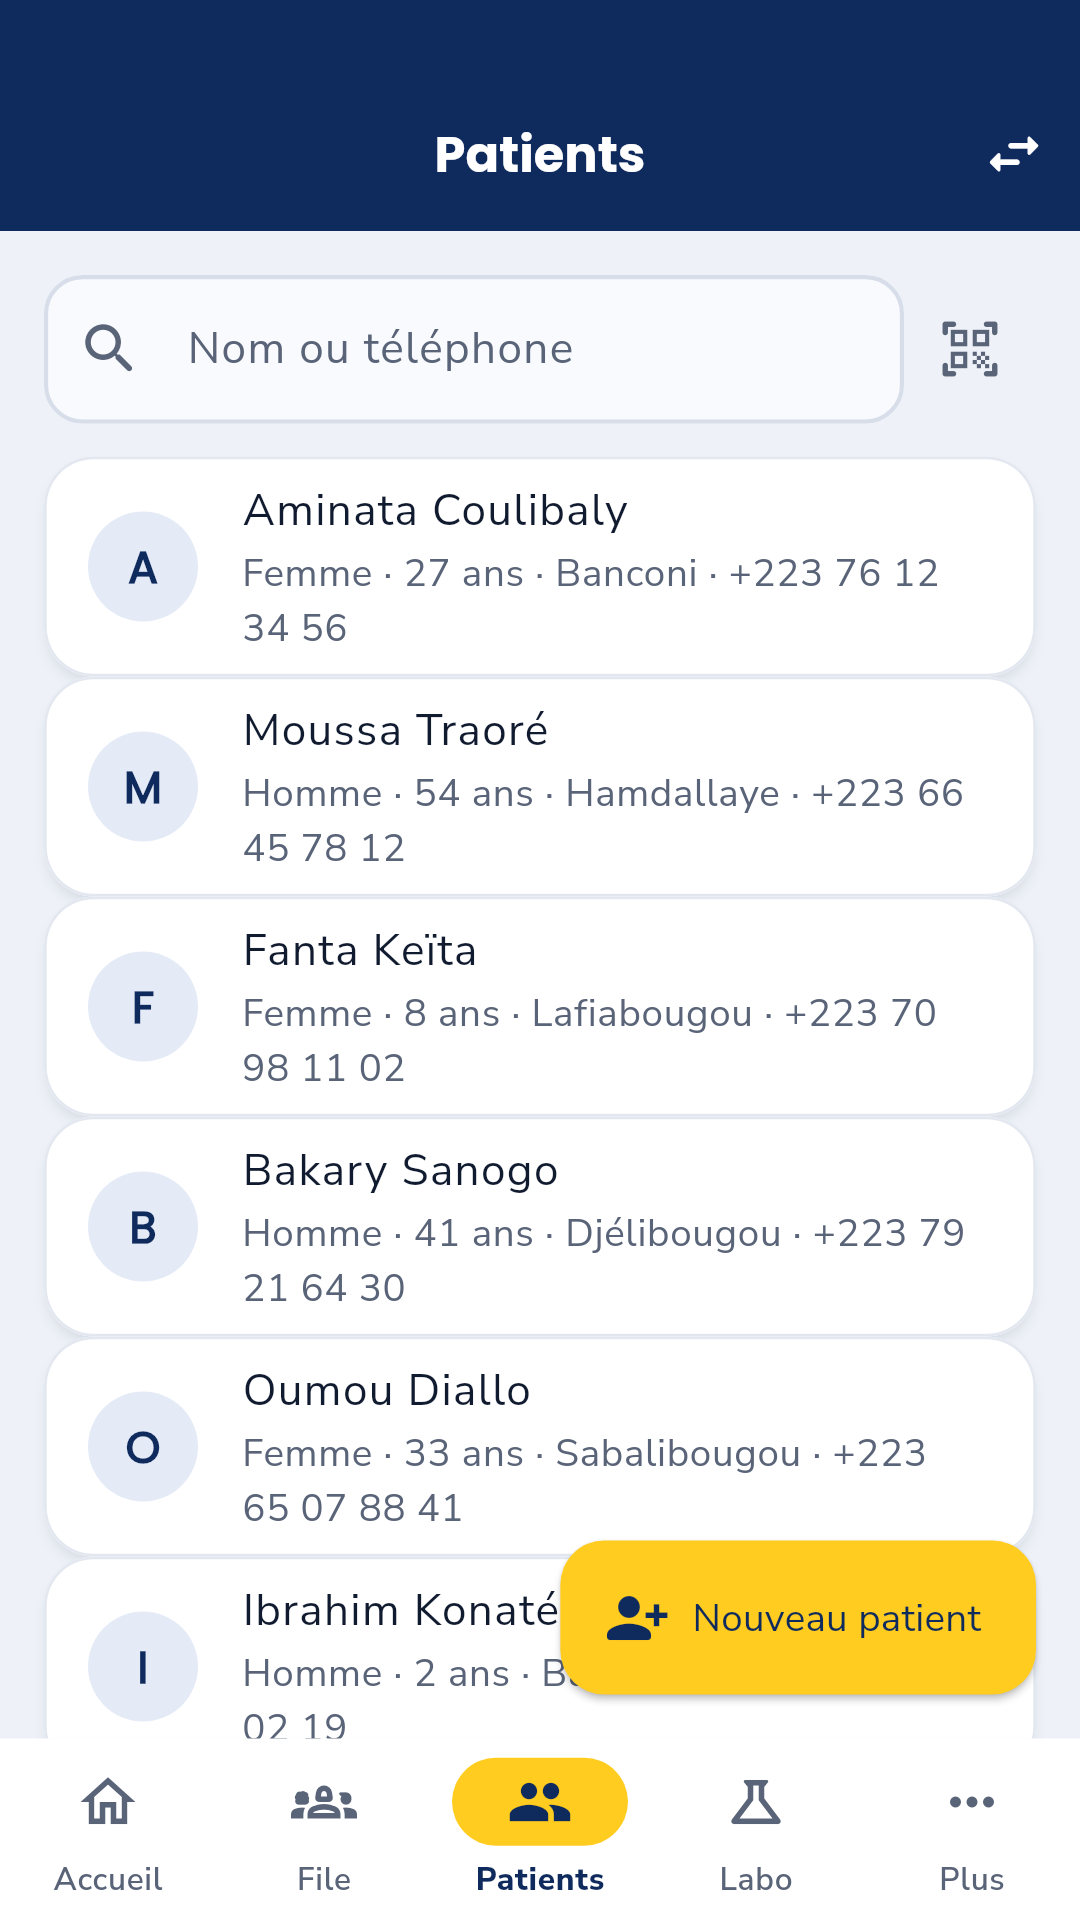
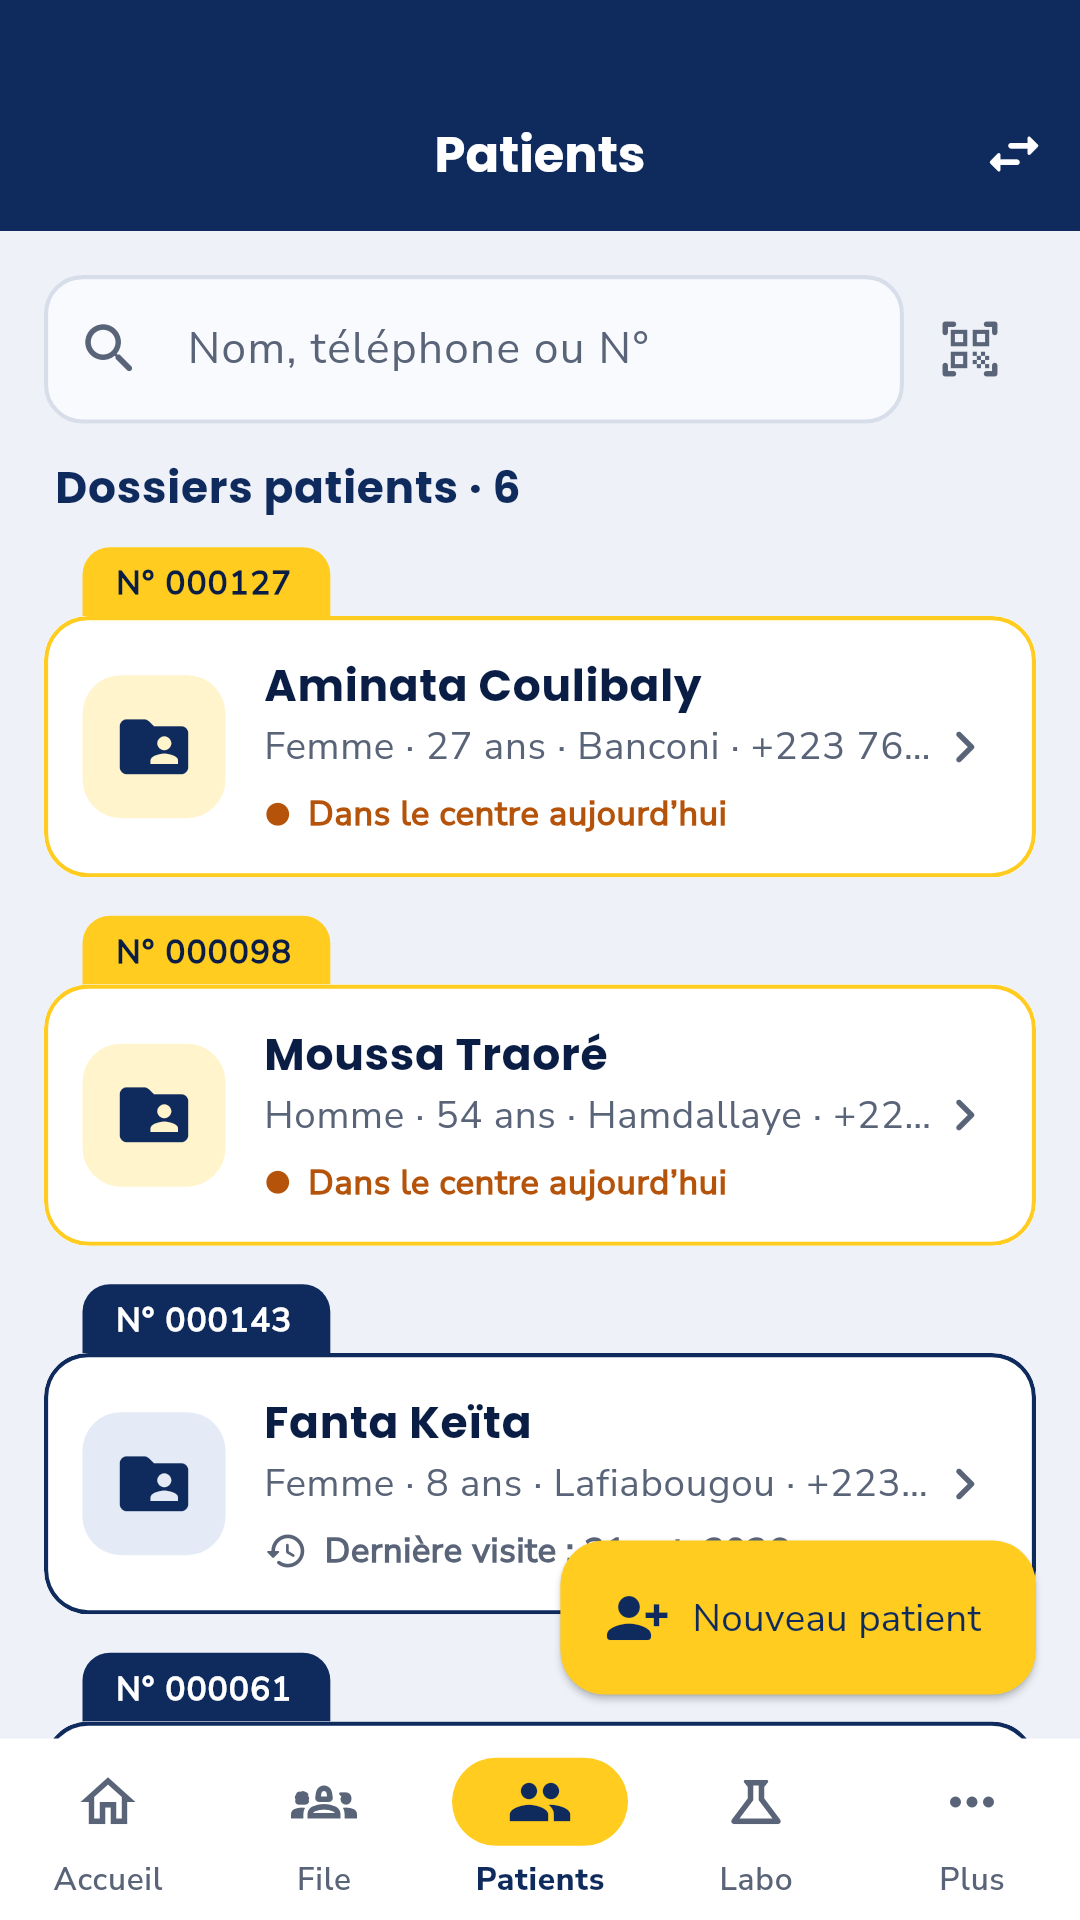
Patients : la liste devient un fichier de dossiers (onglet N°, icône dossier, dernière visite, présent aujourd'hui), grille sur tablette

diff --git a/lib/screens/patients/patients_tab.dart b/lib/screens/patients/patients_tab.dart
@@ -2,6 +2,8 @@ import 'dart:async';
 
 import 'package:dio/dio.dart';
 import 'package:flutter/material.dart';
+import 'package:google_fonts/google_fonts.dart';
+import 'package:intl/intl.dart';
 import 'package:provider/provider.dart';
 
 import '../../common/utils/kcolors.dart';
@@ -122,7 +124,7 @@ class _PatientsTabState extends State<PatientsTab> {
                     controller: _recherche,
                     decoration: const InputDecoration(
                       prefixIcon: Icon(Icons.search_rounded),
-                      labelText: 'Nom ou téléphone',
+                      labelText: 'Nom, téléphone ou N°',
                     ),
                     onChanged: (_) {
                       _attente?.cancel();
@@ -162,33 +164,190 @@ class _PatientsTabState extends State<PatientsTab> {
                   style: const TextStyle(color: Kolors.kTextMuted),
                 ),
               )
-            else
-              for (final p in l)
-                Card(
-                  child: ListTile(
-                    leading: CircleAvatar(
-                      backgroundColor: Kolors.kSecondaryLight,
-                      child: Text(
-                        p.nom.isEmpty ? '?' : p.nom.characters.first,
-                        style: const TextStyle(
-                          color: Kolors.kPrimary,
-                          fontWeight: FontWeight.w800,
-                        ),
-                      ),
-                    ),
-                    title: Text(p.nom),
-                    subtitle: Text(
-                      [
-                        p.resume,
-                        ?p.telephone,
-                      ].where((x) => x.isNotEmpty).join(' · '),
-                    ),
-                    onTap: () => _ouvrir(p),
+            else ...[
+              Padding(
+                padding: const EdgeInsets.fromLTRB(4, 0, 4, 10),
+                child: Text(
+                  _recherche.text.isEmpty
+                      ? 'Dossiers patients · ${l.length}${l.length == 100 ? '+' : ''}'
+                      : '${l.length} dossier${l.length > 1 ? 's' : ''} trouvé${l.length > 1 ? 's' : ''}',
+                  style: GoogleFonts.poppins(
+                    fontSize: 16,
+                    fontWeight: FontWeight.w700,
+                    color: Kolors.kPrimary,
                   ),
                 ),
+              ),
+              LayoutBuilder(
+                builder: (context, c) {
+                  final colonnes = c.maxWidth >= 1100
+                      ? 3
+                      : (c.maxWidth >= 640 ? 2 : 1);
+                  final largeur = (c.maxWidth - 12 * (colonnes - 1)) / colonnes;
+                  return Wrap(
+                    spacing: 12,
+                    runSpacing: 14,
+                    children: [
+                      for (final p in l)
+                        SizedBox(
+                          width: largeur,
+                          child: CarteDossier(p, onTap: () => _ouvrir(p)),
+                        ),
+                    ],
+                  );
+                },
+              ),
+            ],
           ],
         ),
       ),
+    );
+  }
+}
+
+/// Un dossier patient, comme une chemise cartonnée : l'onglet avec son
+/// numéro, l'icône du dossier, qui il est, et quand il est venu.
+class CarteDossier extends StatelessWidget {
+  const CarteDossier(this.patient, {required this.onTap, super.key});
+
+  final Patient patient;
+  final VoidCallback onTap;
+
+  @override
+  Widget build(BuildContext context) {
+    final p = patient;
+    final couleur = p.enCours ? Kolors.kJaune : Kolors.kPrimary;
+    return Column(
+      crossAxisAlignment: CrossAxisAlignment.start,
+      children: [
+        // L'onglet de la chemise.
+        Container(
+          margin: const EdgeInsets.only(left: 14),
+          padding: const EdgeInsets.fromLTRB(12, 4, 14, 4),
+          decoration: BoxDecoration(
+            color: couleur,
+            borderRadius: const BorderRadius.vertical(top: Radius.circular(10)),
+          ),
+          child: Text(
+            p.numero == null ? 'Dossier' : 'N° ${p.numero}',
+            style: TextStyle(
+              color: p.enCours ? Kolors.kPrimaryDark : Kolors.kWhite,
+              fontSize: 12,
+              fontWeight: FontWeight.w800,
+              letterSpacing: 0.5,
+            ),
+          ),
+        ),
+        Material(
+          color: Kolors.kWhite,
+          shape: RoundedRectangleBorder(
+            borderRadius: BorderRadius.circular(16),
+            side: BorderSide(color: couleur, width: 1.5),
+          ),
+          clipBehavior: Clip.antiAlias,
+          child: InkWell(
+            onTap: onTap,
+            child: Padding(
+              padding: const EdgeInsets.all(14),
+              child: Row(
+                children: [
+                  Container(
+                    width: 52,
+                    height: 52,
+                    decoration: BoxDecoration(
+                      color: p.enCours
+                          ? Kolors.kJauneDoux
+                          : Kolors.kSecondaryLight,
+                      borderRadius: BorderRadius.circular(14),
+                    ),
+                    child: Icon(
+                      Icons.folder_shared_rounded,
+                      color: Kolors.kPrimary,
+                      size: 30,
+                    ),
+                  ),
+                  const SizedBox(width: 14),
+                  Expanded(
+                    child: Column(
+                      crossAxisAlignment: CrossAxisAlignment.start,
+                      children: [
+                        Text(
+                          p.nom,
+                          maxLines: 1,
+                          overflow: TextOverflow.ellipsis,
+                          style: GoogleFonts.poppins(
+                            fontSize: 16,
+                            fontWeight: FontWeight.w700,
+                            color: Kolors.kPrimaryDark,
+                          ),
+                        ),
+                        if (p.resume.isNotEmpty || p.telephone != null)
+                          Text(
+                            [
+                              p.resume,
+                              ?p.telephone,
+                            ].where((x) => x.isNotEmpty).join(' · '),
+                            maxLines: 1,
+                            overflow: TextOverflow.ellipsis,
+                            style: const TextStyle(color: Kolors.kTextMuted),
+                          ),
+                        const SizedBox(height: 6),
+                        _Etat(p),
+                      ],
+                    ),
+                  ),
+                  const Icon(
+                    Icons.chevron_right_rounded,
+                    color: Kolors.kTextMuted,
+                  ),
+                ],
+              ),
+            ),
+          ),
+        ),
+      ],
+    );
+  }
+}
+
+/// « Dans le centre aujourd'hui », « Venu le 12 oct. », ou « Jamais venu ».
+class _Etat extends StatelessWidget {
+  const _Etat(this.p);
+
+  final Patient p;
+
+  @override
+  Widget build(BuildContext context) {
+    final (icone, texte, couleur) = p.enCours
+        ? (Icons.circle, 'Dans le centre aujourd’hui', Kolors.kGold)
+        : p.derniereVisite != null
+        ? (
+            Icons.history_rounded,
+            'Dernière visite : ${DateFormat('d MMM y', 'fr').format(p.derniereVisite!)}',
+            Kolors.kTextMuted,
+          )
+        : (
+            Icons.info_outline_rounded,
+            'Pas encore venu ici',
+            Kolors.kTextMuted,
+          );
+    return Row(
+      children: [
+        Icon(icone, size: p.enCours ? 10 : 16, color: couleur),
+        const SizedBox(width: 6),
+        Flexible(
+          child: Text(
+            texte,
+            maxLines: 1,
+            overflow: TextOverflow.ellipsis,
+            style: TextStyle(
+              fontSize: 12.5,
+              fontWeight: FontWeight.w700,
+              color: couleur,
+            ),
+          ),
+        ),
+      ],
     );
   }
 }

diff --git a/tool/captures_store.dart b/tool/captures_store.dart
@@ -274,12 +274,12 @@ String _jour(int dans) => DateTime(
 ).toIso8601String().substring(0, 10);
 
 final _patients = <Map<String, dynamic>>[
-  {'uuid': 'p1', 'nom': 'Aminata Coulibaly', 'sexe': 'F', 'age': 27, 'telephone': '+223 76 12 34 56', 'adresse': 'Banconi', 'a_un_compte': true},
-  {'uuid': 'p2', 'nom': 'Moussa Traoré', 'sexe': 'M', 'age': 54, 'telephone': '+223 66 45 78 12', 'adresse': 'Hamdallaye'},
-  {'uuid': 'p3', 'nom': 'Fanta Keïta', 'sexe': 'F', 'age': 8, 'telephone': '+223 70 98 11 02', 'adresse': 'Lafiabougou'},
-  {'uuid': 'p4', 'nom': 'Bakary Sanogo', 'sexe': 'M', 'age': 41, 'telephone': '+223 79 21 64 30', 'adresse': 'Djélibougou'},
-  {'uuid': 'p5', 'nom': 'Oumou Diallo', 'sexe': 'F', 'age': 33, 'telephone': '+223 65 07 88 41', 'adresse': 'Sabalibougou'},
-  {'uuid': 'p6', 'nom': 'Ibrahim Konaté', 'sexe': 'M', 'age': 2, 'telephone': '+223 76 55 02 19', 'adresse': 'Banconi'},
+  {'uuid': 'p1', 'numero': '000127', 'en_cours': true, 'derniere_visite': _il(0, 8, 12), 'nom': 'Aminata Coulibaly', 'sexe': 'F', 'age': 27, 'telephone': '+223 76 12 34 56', 'adresse': 'Banconi', 'a_un_compte': true},
+  {'uuid': 'p2', 'numero': '000098', 'en_cours': true, 'derniere_visite': _il(0, 9, 5), 'nom': 'Moussa Traoré', 'sexe': 'M', 'age': 54, 'telephone': '+223 66 45 78 12', 'adresse': 'Hamdallaye'},
+  {'uuid': 'p3', 'numero': '000143', 'derniere_visite': _il(6), 'nom': 'Fanta Keïta', 'sexe': 'F', 'age': 8, 'telephone': '+223 70 98 11 02', 'adresse': 'Lafiabougou'},
+  {'uuid': 'p4', 'numero': '000061', 'derniere_visite': _il(21), 'nom': 'Bakary Sanogo', 'sexe': 'M', 'age': 41, 'telephone': '+223 79 21 64 30', 'adresse': 'Djélibougou'},
+  {'uuid': 'p5', 'numero': '000152', 'derniere_visite': _il(45), 'nom': 'Oumou Diallo', 'sexe': 'F', 'age': 33, 'telephone': '+223 65 07 88 41', 'adresse': 'Sabalibougou'},
+  {'uuid': 'p6', 'numero': '000158', 'nom': 'Ibrahim Konaté', 'sexe': 'M', 'age': 2, 'telephone': '+223 76 55 02 19', 'adresse': 'Banconi'},
 ];
 
 final _patientDemo = Patient.fromJson({

diff --git a/lib/patients/patients_service.dart b/lib/patients/patients_service.dart
@@ -85,6 +85,9 @@ class Patient {
     this.sexe,
     this.dateNaissance,
     this.age,
+    this.numero,
+    this.derniereVisite,
+    this.enCours = false,
     this.visites = const [],
     this.rendezVous = const [],
   });
@@ -98,6 +101,13 @@ class Patient {
   final String? sexe;
   final String? dateNaissance;
   final int? age;
+
+  /// Le numéro de dossier (« 000012 »).
+  final String? numero;
+
+  /// Sa dernière visite ici, et s'il est dans le centre aujourd'hui (liste).
+  final DateTime? derniereVisite;
+  final bool enCours;
   final List<VisitePatient> visites;
   final List<RdvPatient> rendezVous;
 
@@ -130,6 +140,9 @@ class Patient {
     sexe: _texte(j['sexe']),
     dateNaissance: _texte(j['date_naissance']),
     age: int.tryParse('${j['age']}'),
+    numero: _texte(j['numero']),
+    derniereVisite: DateTime.tryParse('${j['derniere_visite']}')?.toLocal(),
+    enCours: j['en_cours'] == true,
     visites: [
       if (j['visites'] is List)
         for (final v in (j['visites'] as List).whereType<Map>())
